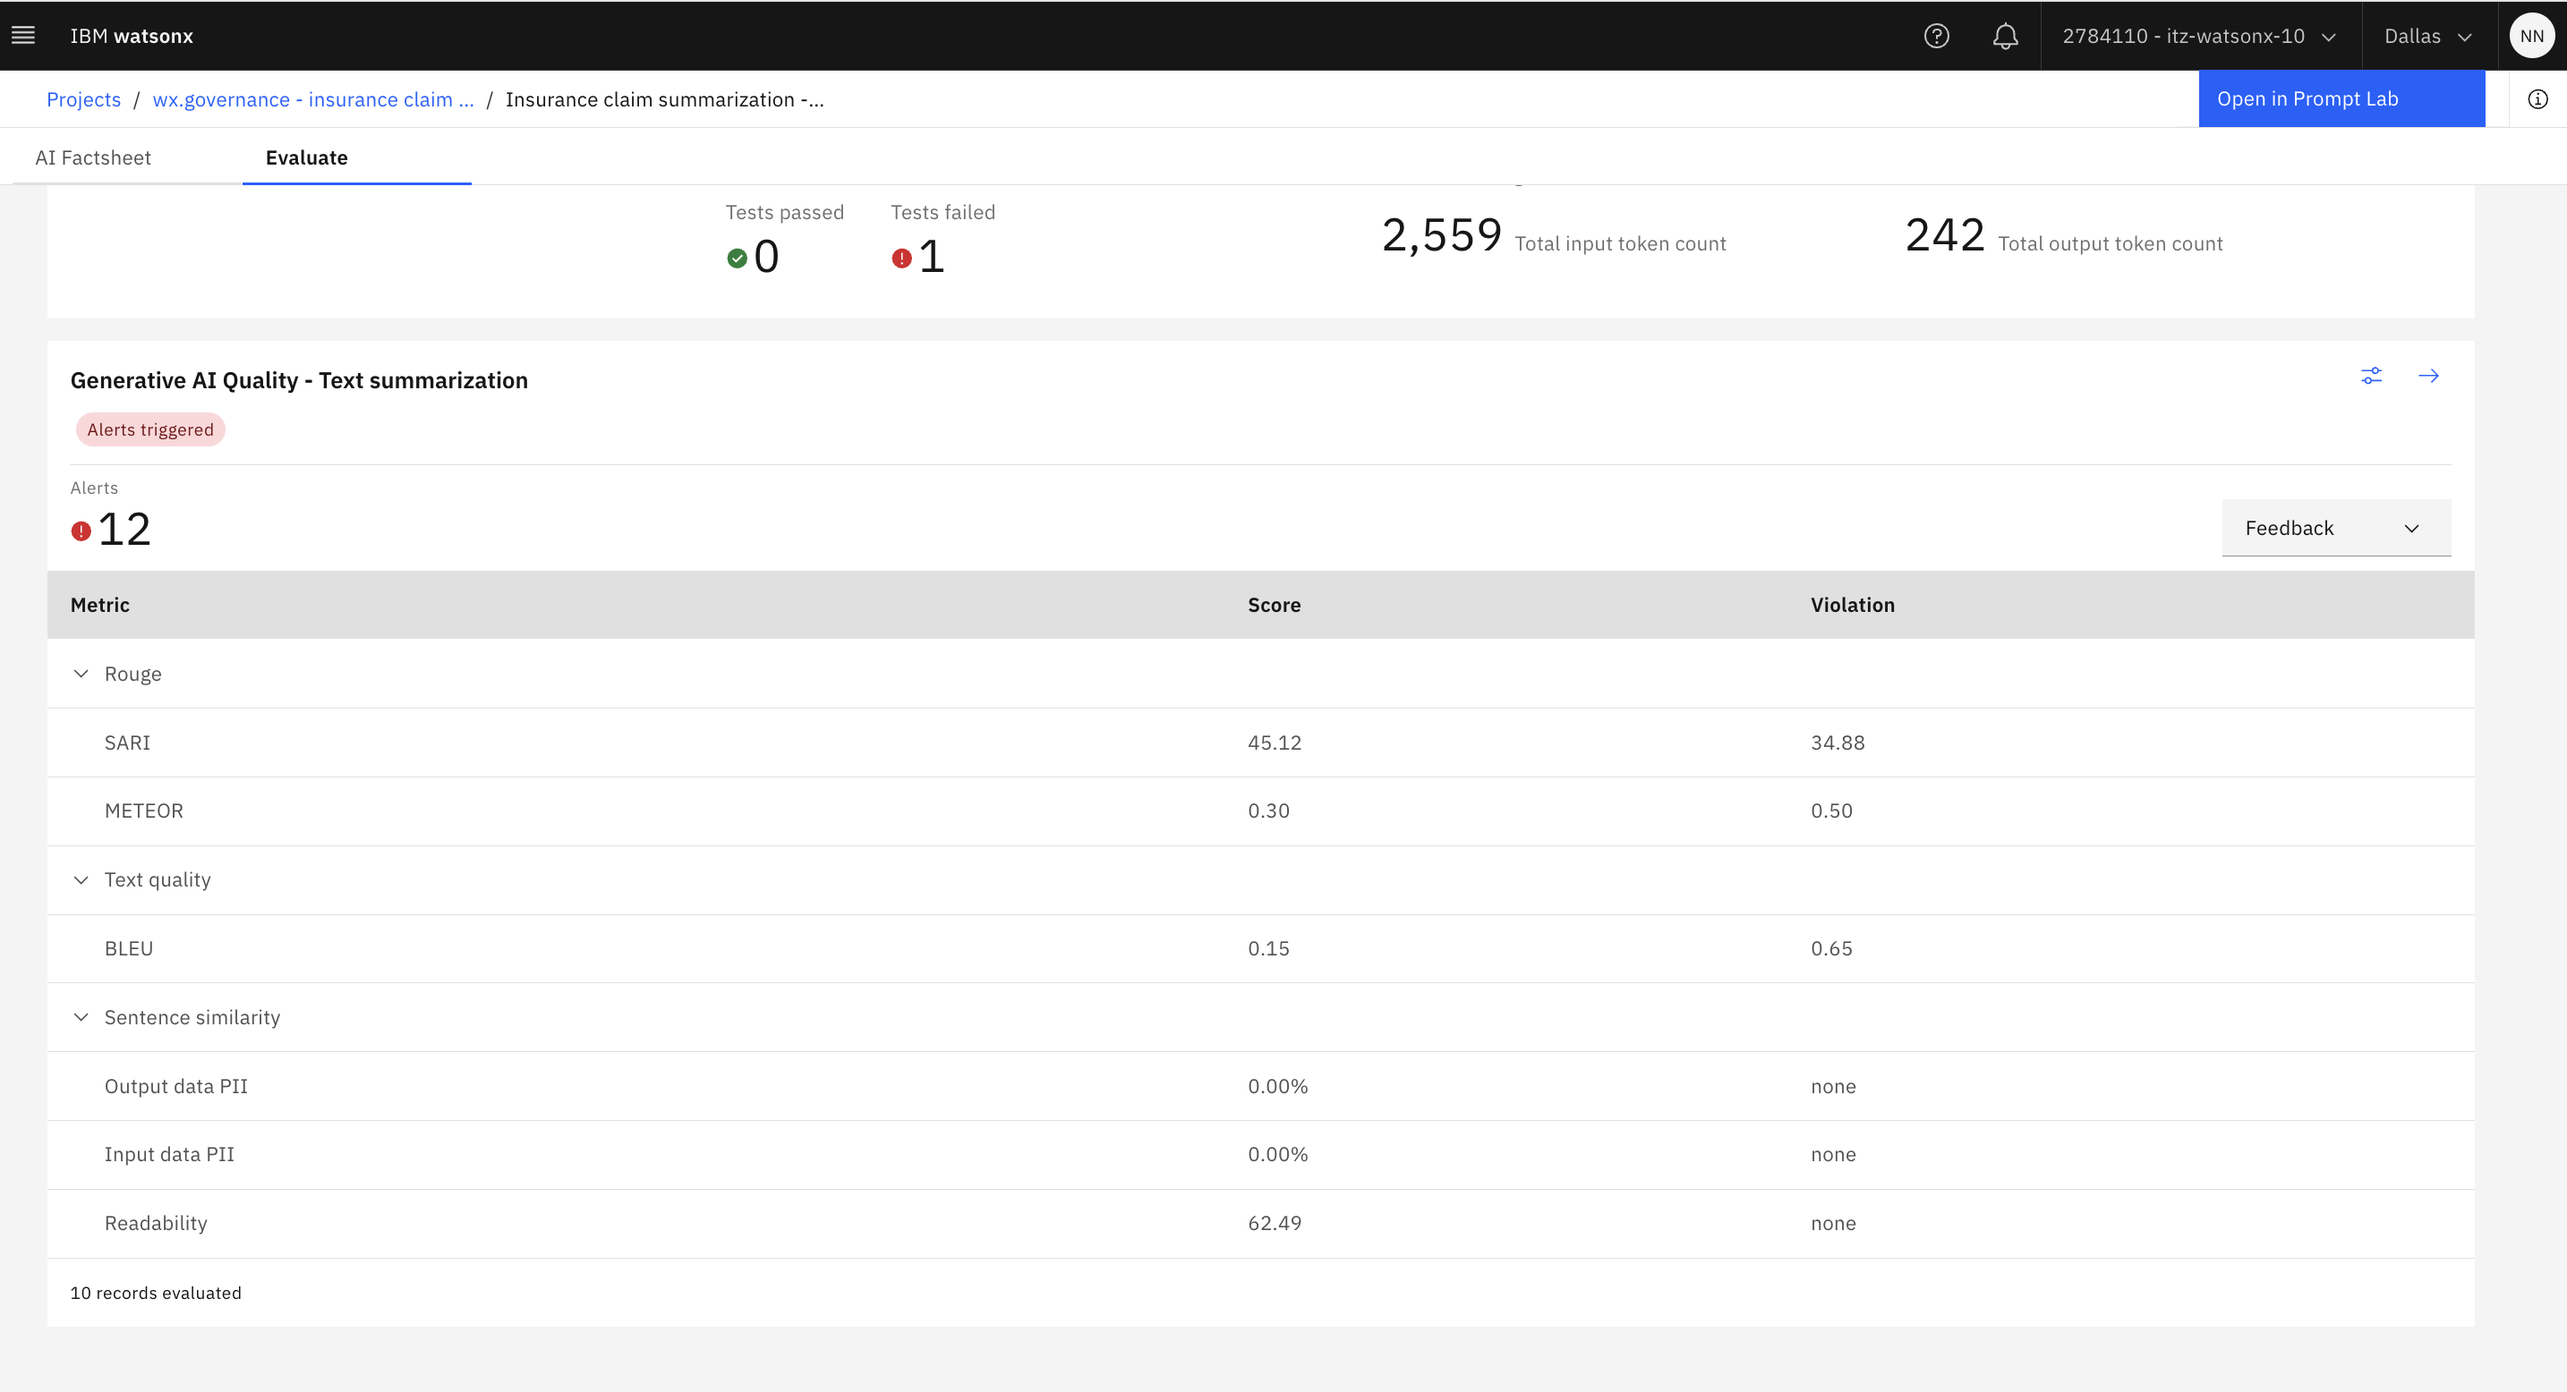
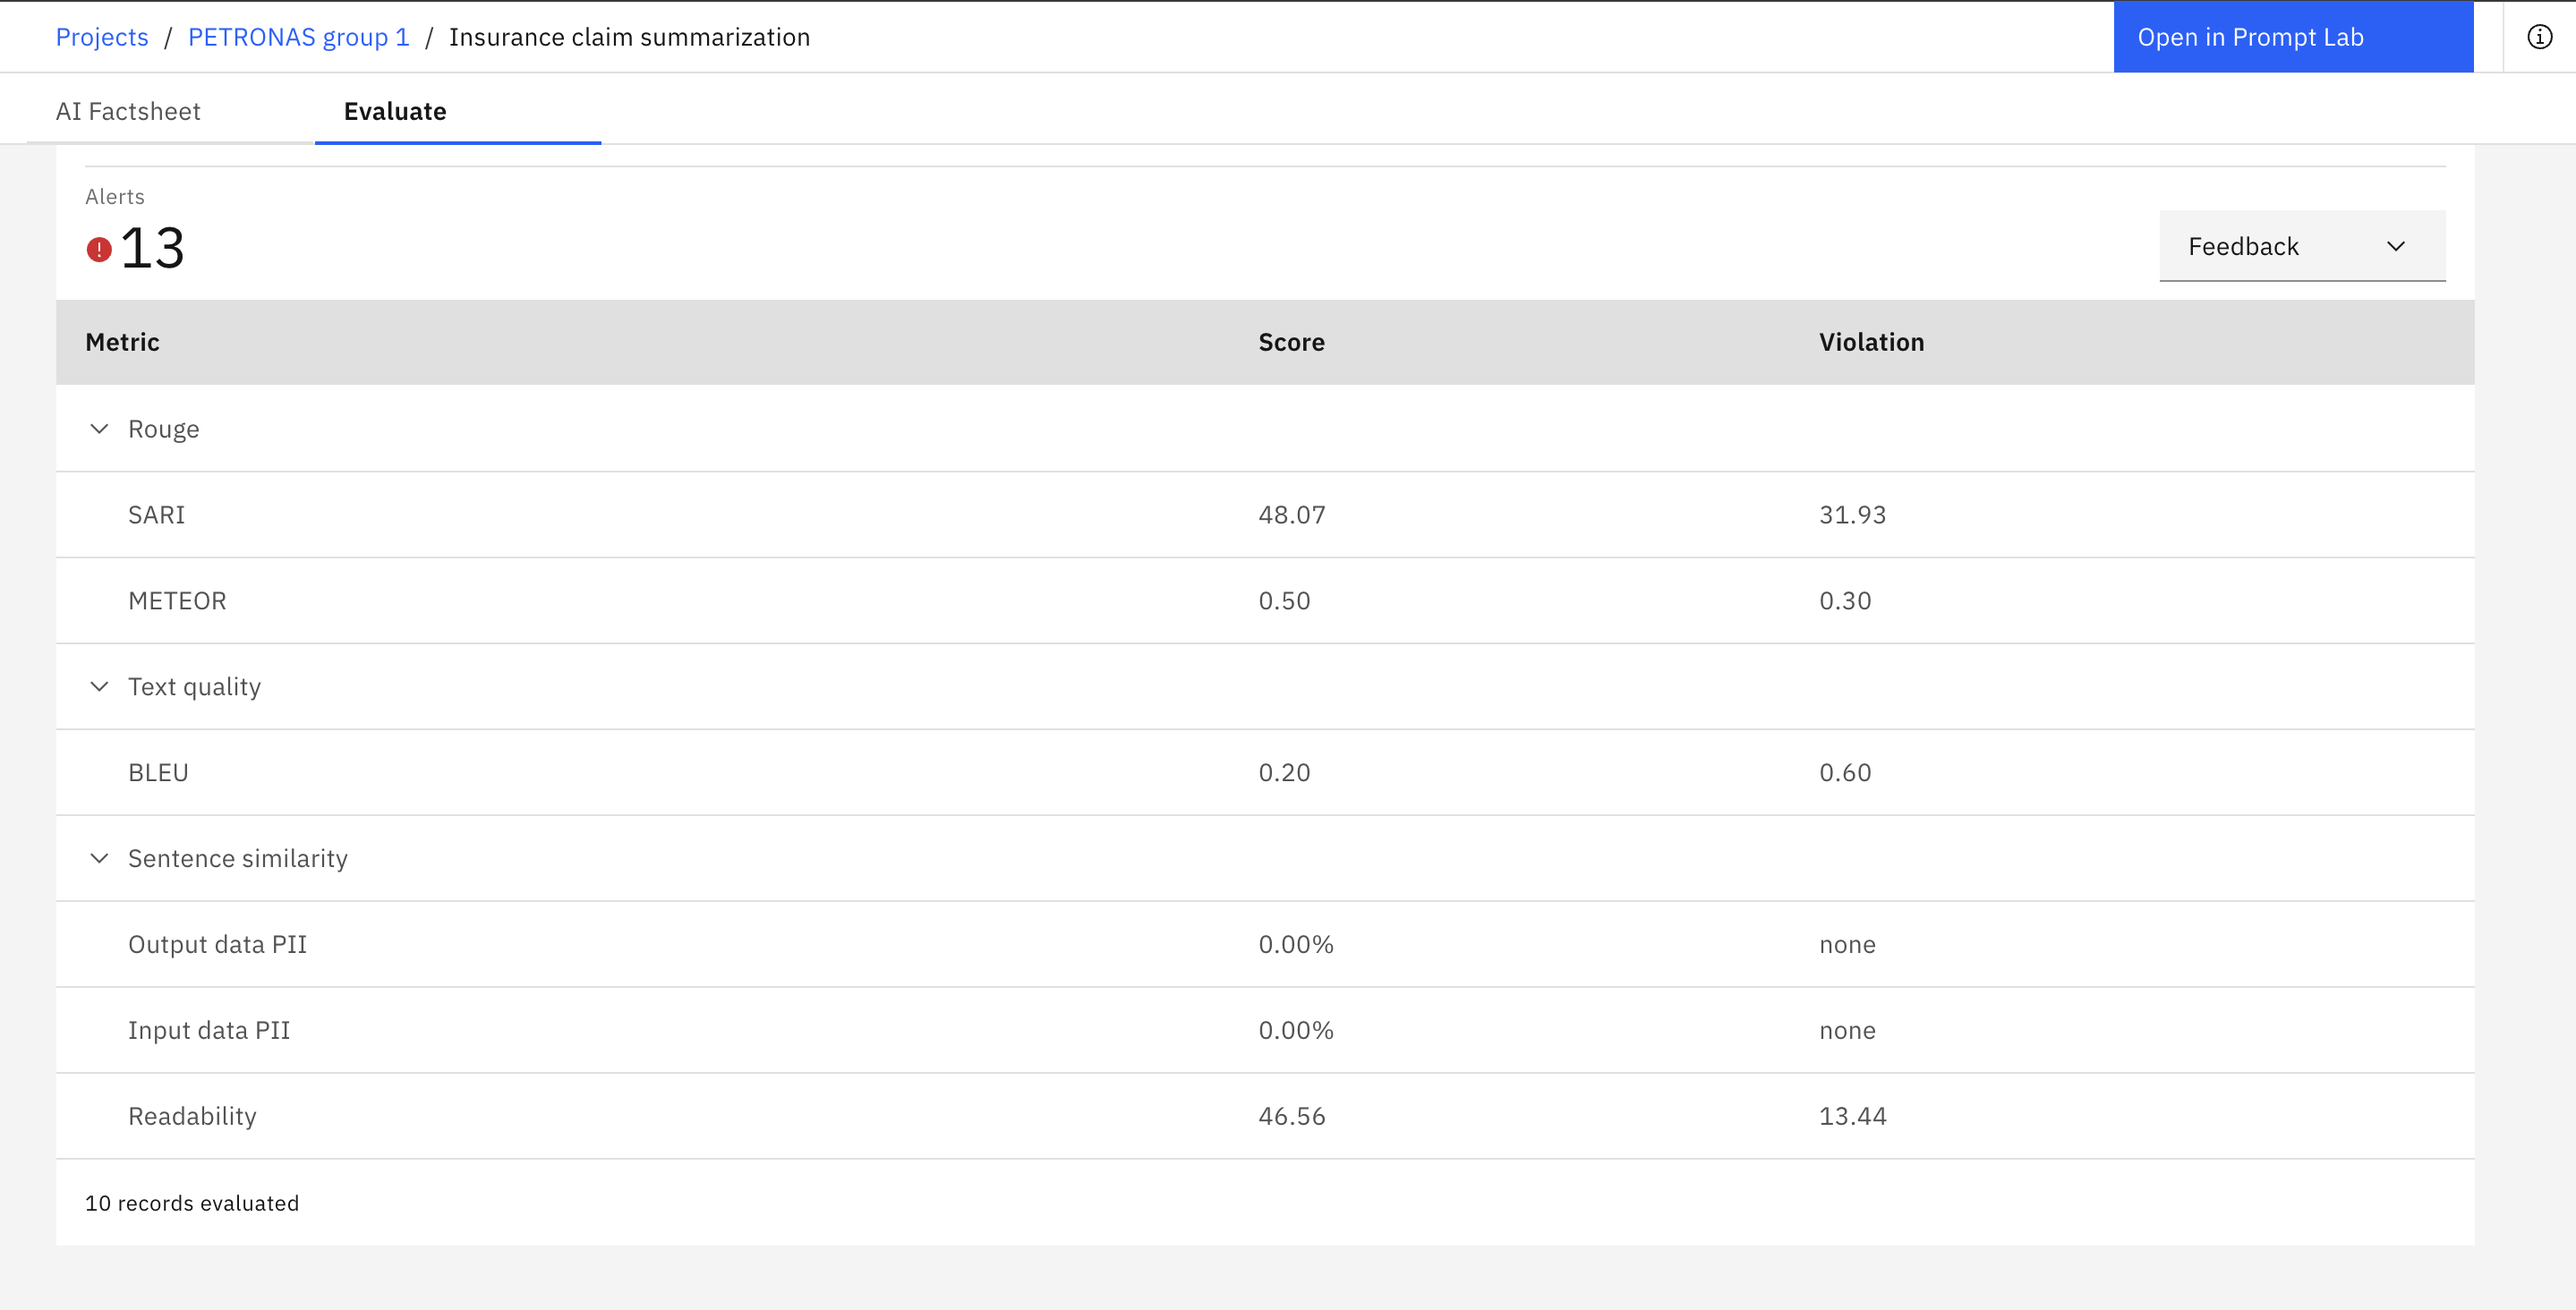
edit screnshot

diff --git a/Day 2/lab202-assisted-prompt-evaluation/readme.md b/Day 2/lab202-assisted-prompt-evaluation/readme.md
@@ -105,7 +105,7 @@ After that, you will see a screen to review the information you have entered. On
 
 ![Review and eval](images/picture24.png)
 
-Once the evaluation has finished, you should see a screen pop up displaying the results. As you can see here, our evaluation was not very successful, triggering 12 alerts and failing its test. This is to be expected! The goal of this lab is to build on our first prompt that we have created here, and work to achieve better results so that we can deploy our prompt and eventually bring it to production.
+Once the evaluation has finished, you should see a screen pop up displaying the results. As you can see here, our evaluation was not very successful, triggering 13 alerts and failing its test. This is to be expected! The goal of this lab is to build on our first prompt that we have created here, and work to achieve better results so that we can deploy our prompt and eventually bring it to production.
 
 ![Results](images/picture25.png)
 
@@ -121,8 +121,6 @@ If you haven’t already done so, it will ask you so save your work the same way
 
 ### 4. Evaluation Results<a name="evaluation-results"></a>
 ---
-<img alt="image" src="images/picture25.png">
-
 Scroll down the **Evaluate** page to see the specific metrics your prompt was evaluated on.  LLMs can be evaluated using an variety of metrics, and which metrics you use depends on the tasks your LLM is being asked to accomplish.
 
 ![image](images/picture26.png)
@@ -143,15 +141,13 @@ Scroll down the page to the "Generative AI Quality" section, and you will see vi
 
 With the AI Factsheet open, take time to read through the [generative AI quality metrics supported by watsonx.governance](https://dataplatform.cloud.ibm.com/docs/content/wsj/model/wos-monitor-gen-quality.html?context=wx&audience=wdp#supported-generative-ai-quality-metrics). Comparing against the AI Fact Sheet, you can see that each metric has an upper and lower bounds with the ideal range indicated by the bolder portion at the left side of each metric's measurement.
 
-The upside-down triangles represent the measured value for each metrics.  Black triangles good, Red triangles bad.  Look closely and you'll see that your evaluation has only three metrics that pass.
+The upside-down triangles represent the measured value for each metrics.  Black triangles good, Red triangles bad.  Look closely and you'll see that your evaluation has only 2 metrics that pass.
 
 <img width="450" alt="image" src="images/input-data-pii.png">
 
 <img width="450" alt="image" src="images/output-data-pii.png">
 
-<img width="450" alt="image" src="images/readability.png">
-
-Most metrics measuring the quality of a summarization output is in the red.  Hopefully you'll rise to the challenge, choose one of these metrics to improve and build a better prompt for this insurance summarization use case.
+All metrics measuring the quality of a summarization output is in the red.  Hopefully you'll rise to the challenge, choose one of these metrics to improve and build a better prompt for this insurance summarization use case.
 
 For now, though, I'll show you how to modify the thresholds for these metric so that your prompt can have looser requirements to pass testing. In a real world use case, this should only be done if absolutely necessary and makes sense for your use case! Head back over to the evaluation screen, where you will see a blue button to the right of "Generative AI Quality - Text Summarization" where we can adjust our thresholds.
 
@@ -161,11 +157,11 @@ Go ahead and click on that button, and you will be greeted with the following sc
 
 ![Thresholds screen](images/picture39.png)
 
-Here we are going to adjust the text quality - precision metric. This metric is higher if there are fewer words within the generated response that do not exist within the reference response. Scroll down the page and click the edit button to modify it.
+Here we are going to adjust the readability metric. This metric is higher if your model's generated responses to your prompt are easy to interpret, and lower if they are confusing to read. Scroll down the page and click the edit button to modify it.
 
 ![Edit text quality precision](images/picture40.png)
 
-Lastly, go ahead and change the text quality precision to 0.6, which puts the requirement into the acceptable range. After, that, you can go ahead and click save to finalize your changes. Just a reminder here that these metrics should not be altered too much in a real world use case!
+Lastly, go ahead and change the readability  say to 40. After, that, you can go ahead and click save to finalize your changes. Just a reminder here that these metrics should not be altered too much in a real world use case!
 
 ![Submit threshold change](images/picture41.png)
 
